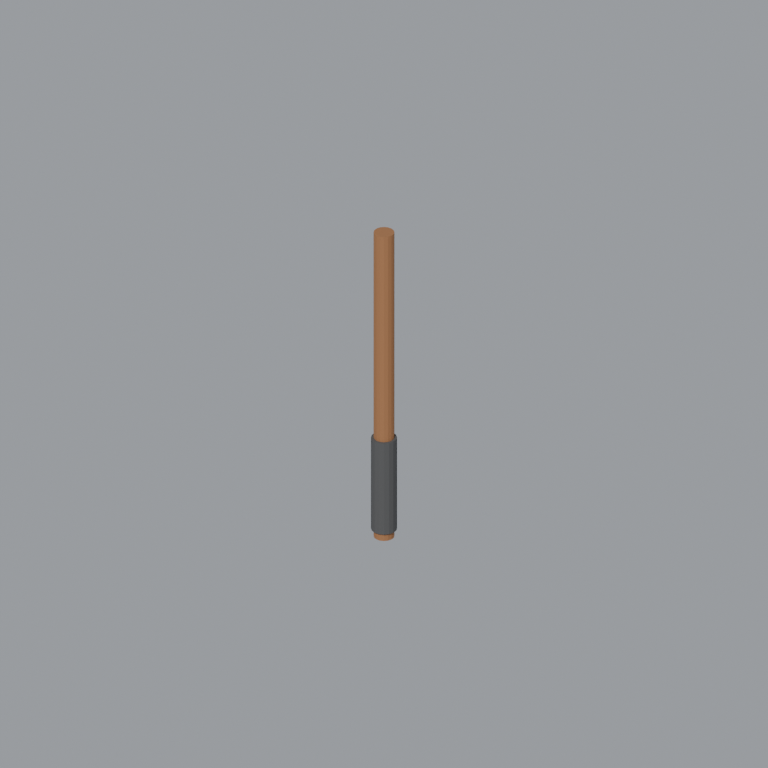
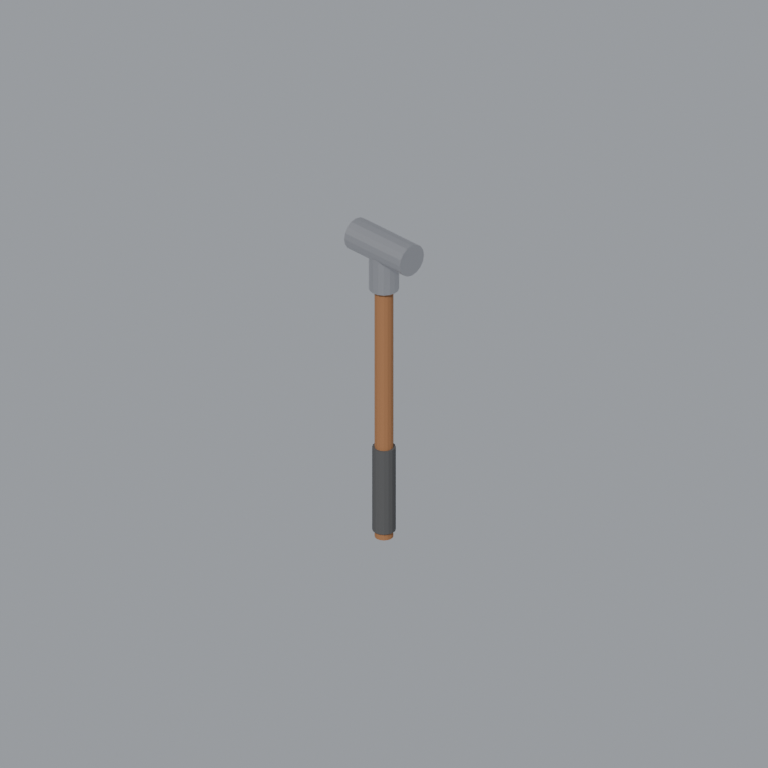
phase 1: StarterWeapon - T-joint head

Changed region(s): [[0.4375, 0.2812, 0.5625, 0.4062], [0.4688, 0.5625, 0.5312, 0.5938]]

diff --git a/art/models/StarterWeapon/build.py b/art/models/StarterWeapon/build.py
@@ -10,6 +10,7 @@ GRIP_LENGTH = 1.2
 collection = scrapkit.new_scene()
 rust = scrapkit.material("Rust", (0.45, 0.22, 0.1), metallic=0.6, roughness=0.8)
 tape = scrapkit.material("Tape", (0.08, 0.08, 0.08), roughness=0.9)
+steel = scrapkit.material("Steel", (0.5, 0.5, 0.52), metallic=0.9, roughness=0.45)
 
 bpy.ops.mesh.primitive_cylinder_add(vertices=16, radius=RADIUS, depth=LENGTH, location=(0, 0, LENGTH / 2))
 pipe = scrapkit.link(bpy.context.object, collection, rust)
@@ -19,5 +20,13 @@ pipe.name = "StarterWeapon"
 bpy.ops.mesh.primitive_cylinder_add(vertices=16, radius=RADIUS * 1.25, depth=GRIP_LENGTH, location=(0, 0, GRIP_LENGTH / 2 + 0.1))
 grip = scrapkit.link(bpy.context.object, collection, tape)
 grip.name = "Grip"
+
+# Head: a T-joint fitting screwed onto the top of the pipe.
+bpy.ops.mesh.primitive_cylinder_add(vertices=16, radius=RADIUS * 1.6, depth=0.5, location=(0, 0, LENGTH - 0.15))
+collar = scrapkit.link(bpy.context.object, collection, steel)
+collar.name = "Collar"
+bpy.ops.mesh.primitive_cylinder_add(vertices=16, radius=RADIUS * 1.8, depth=1.0, location=(0, 0, LENGTH + 0.2), rotation=(0, 1.5708, 0))
+head = scrapkit.link(bpy.context.object, collection, steel)
+head.name = "Head"
 
 scrapkit.finish(collection)
